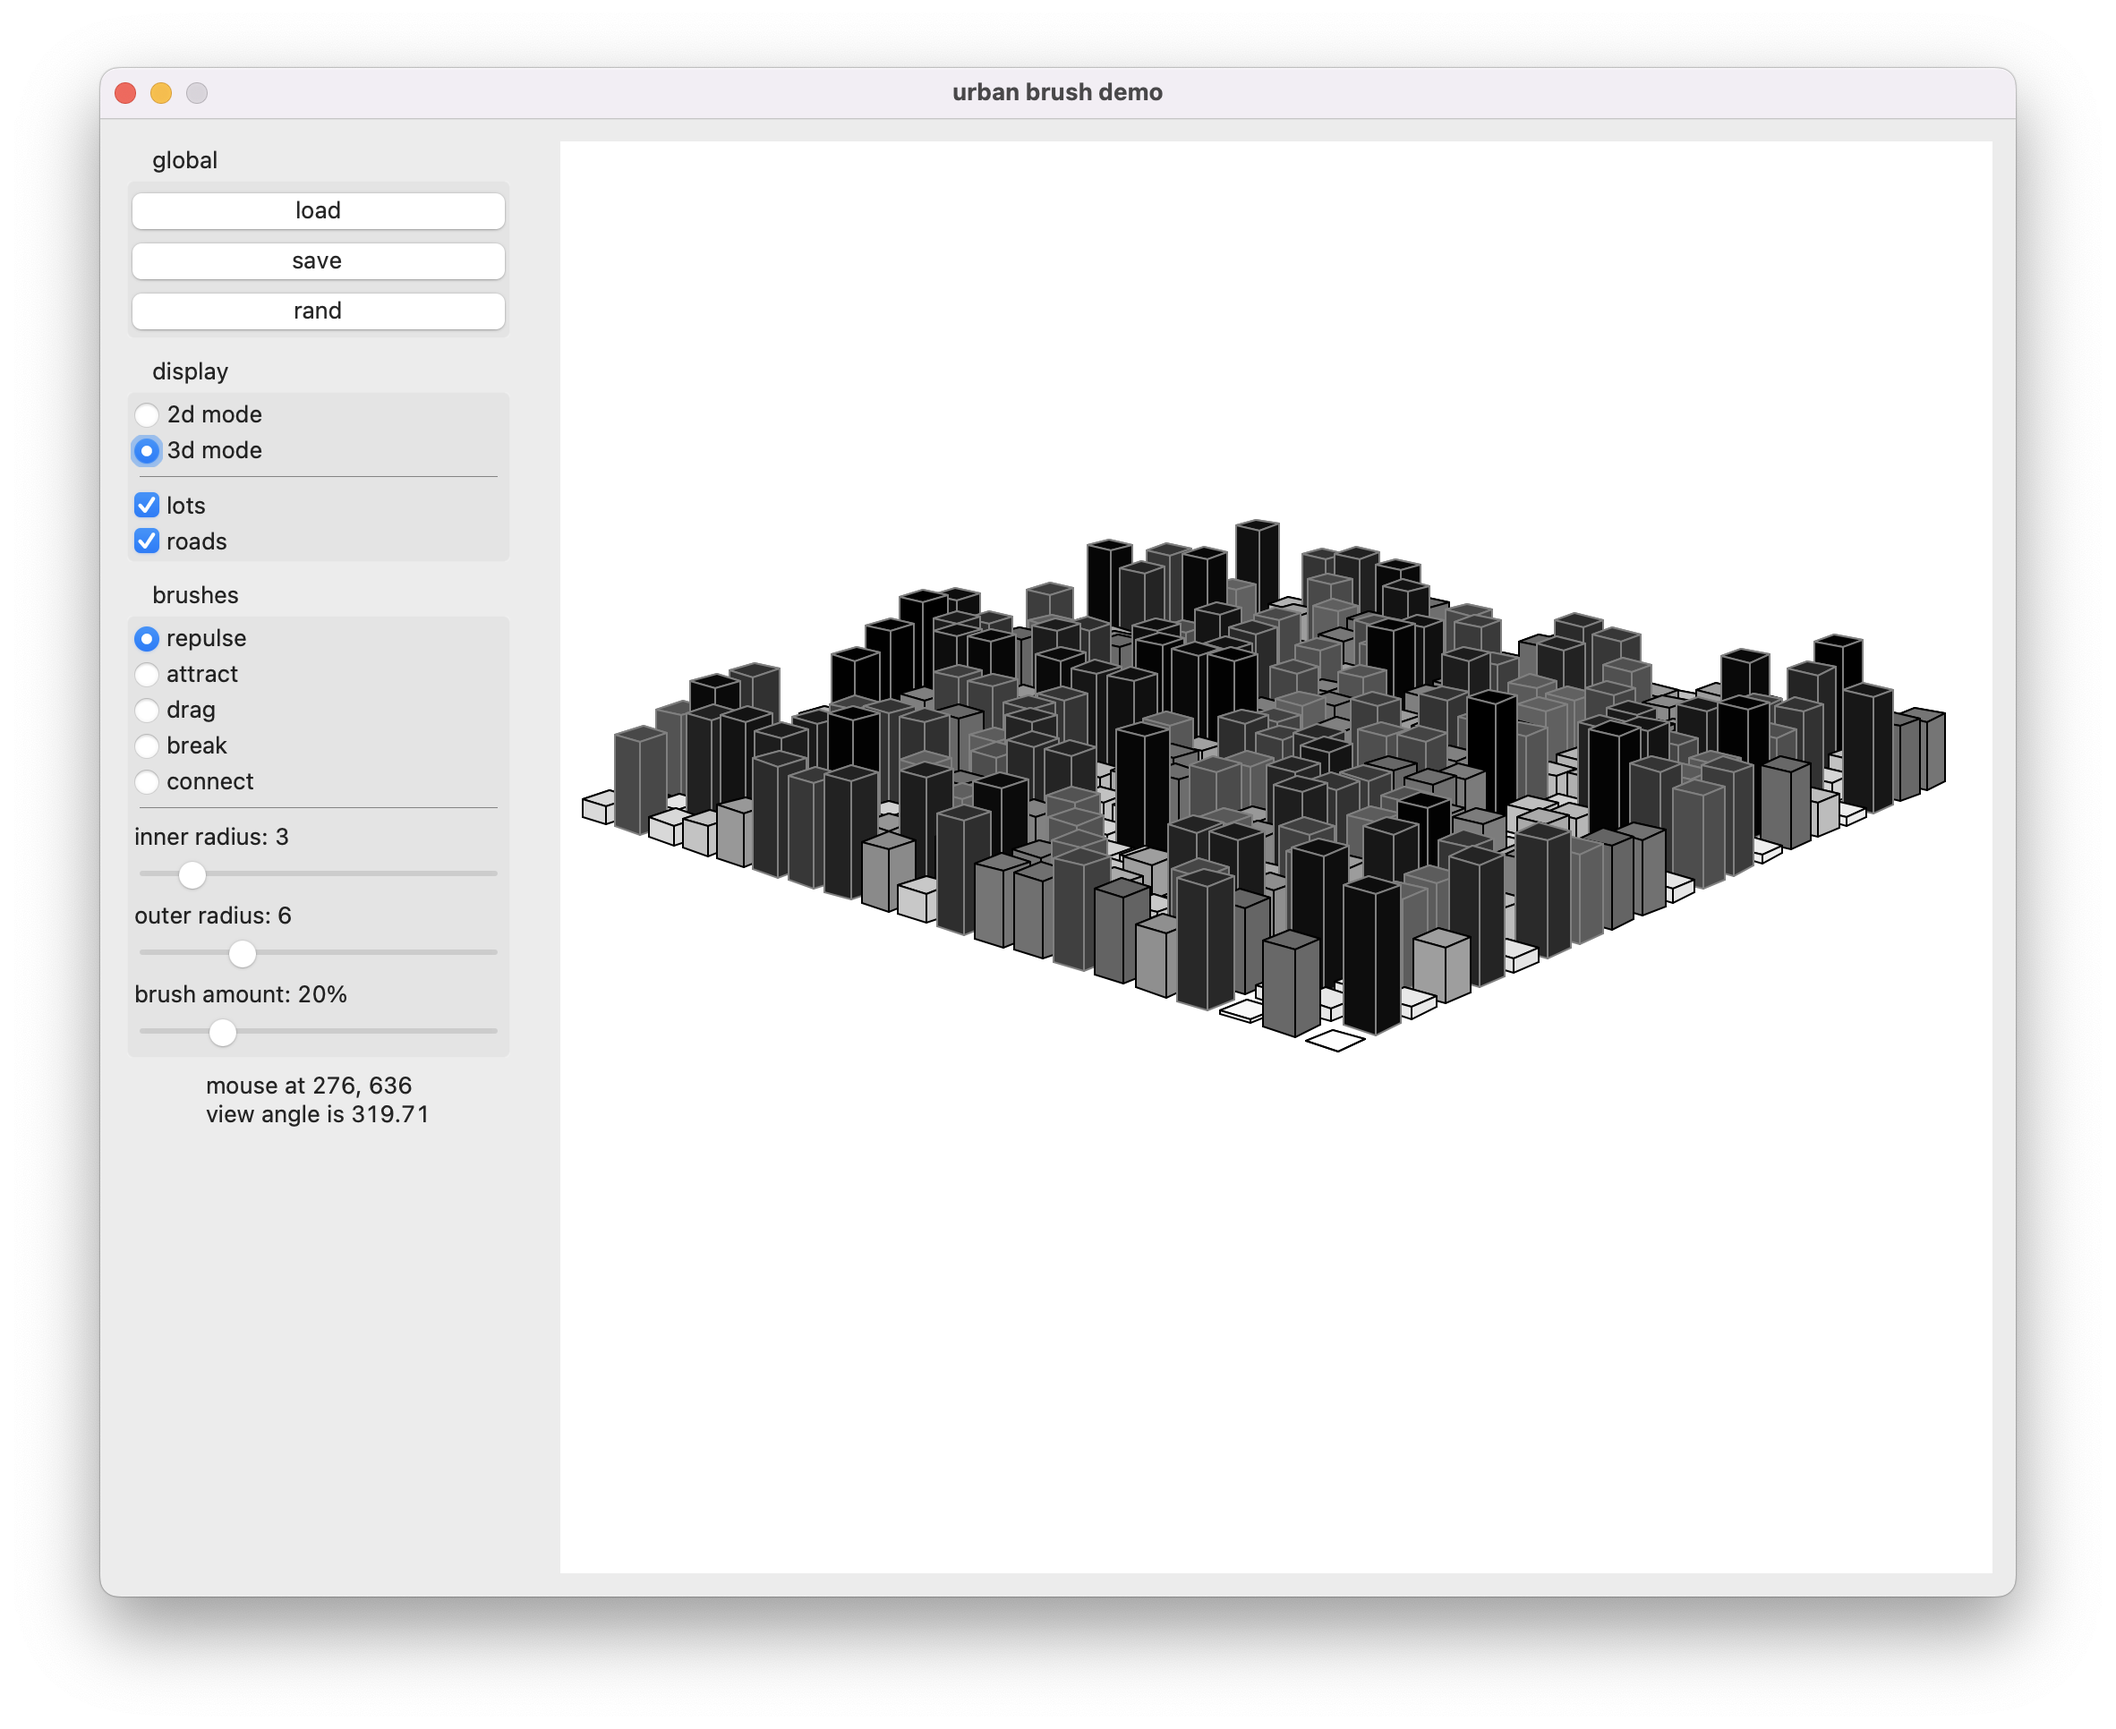
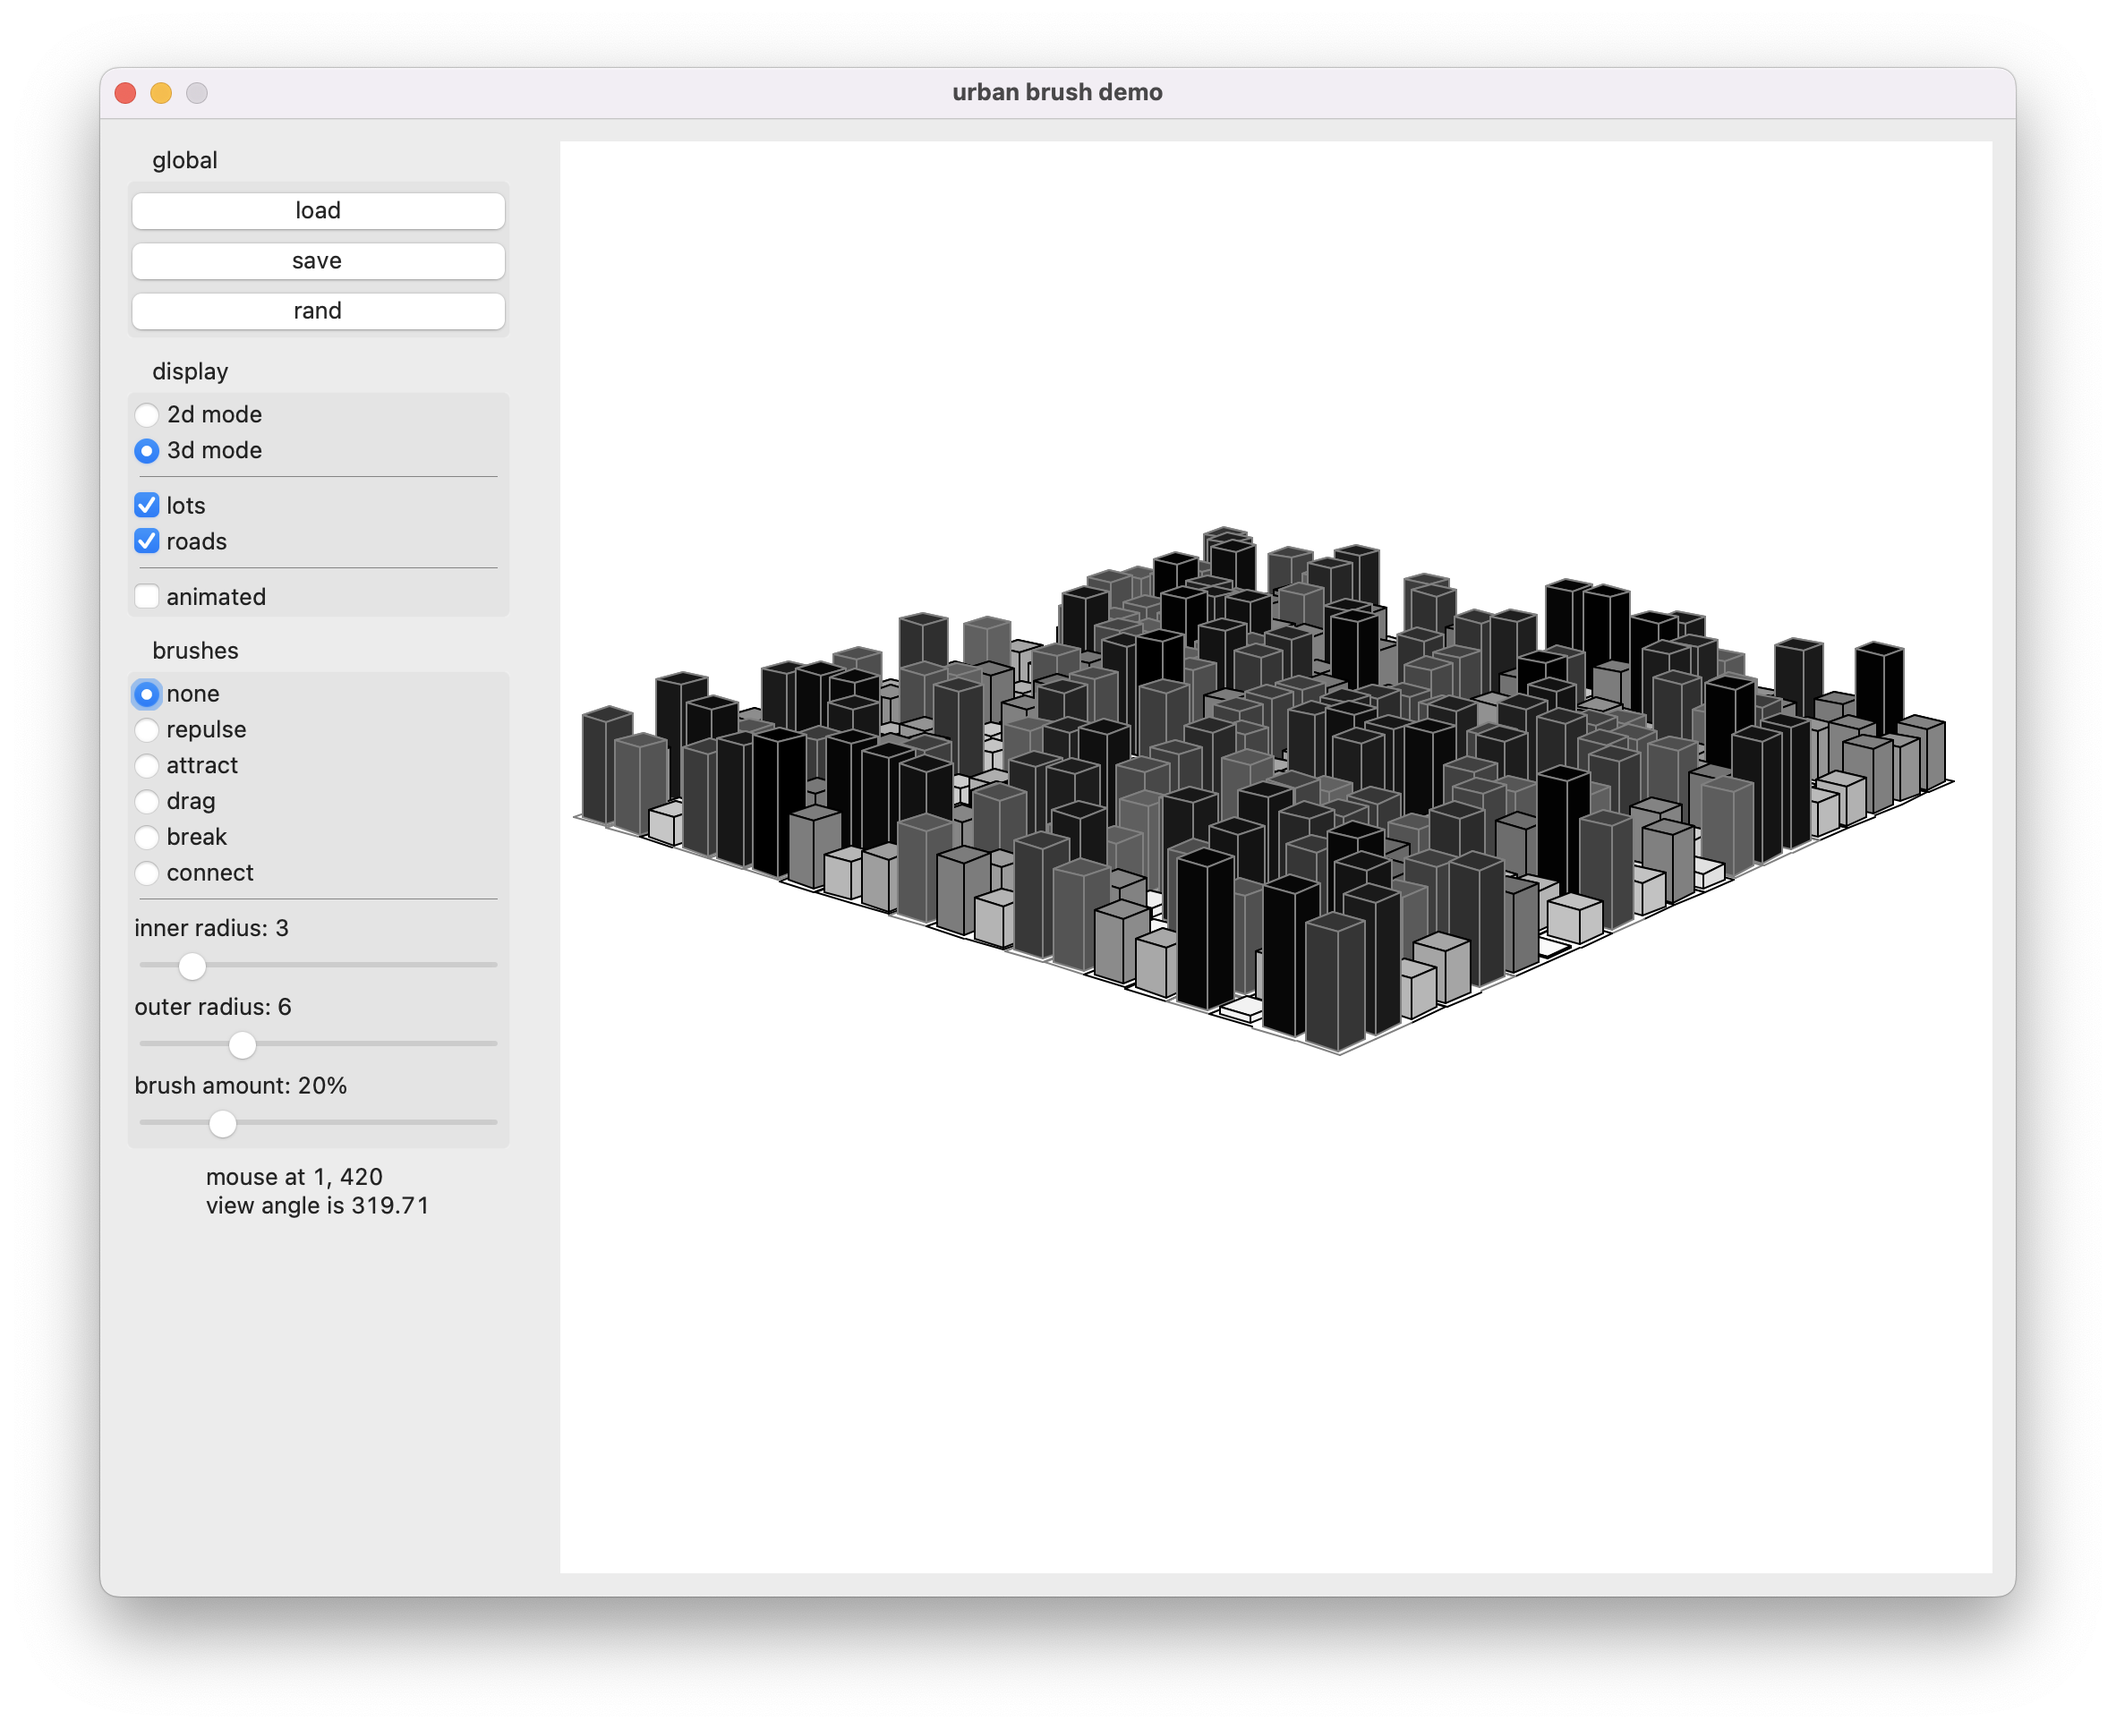
add an option of animated display

diff --git a/src/view3d.py b/src/view3d.py
@@ -4,7 +4,7 @@ from math import degrees
 import numpy as np
 import tkinter as tk
 
-from src.util import buildProjectionMat4, buildTranslationMat4, distance
+from src.util import buildProjectionMat4, buildTranslationMat4, distance, flatten
 
 class View3d(object):
 
@@ -42,9 +42,7 @@ class View3d(object):
         )
         # iterate lots
         meshes = list()
-        rows, cols = self.master.LOT_ROWS, self.master.LOT_COLS
-        for row, col in ((i, j) for i in range(rows) for j in range(cols)):
-            lot = self.master.grid.lots[row][col]
+        for lot in flatten(self.master.grid.lots):
             mesh = [[
                 project.dot(trans.dot(switchYZ.dot(v))) for v in surface
             ] for surface in lot.mesh(
@@ -61,13 +59,24 @@ class View3d(object):
                 lot.population, lot.color
             ) for surface in mesh])
         # render
-        meshes.sort(key=lambda x: x[1])
-        for (v1, v2, v3, v4), _, population, color in meshes:
+        def drawPolygon(v1: tuple, v2: tuple, v3: tuple, v4: tuple, population: int, color: str) -> None:
             canvas.create_polygon(
-                *v1, *v2, *v3, *v4,
-                fill=color, width=1,
+                *v1, *v2, *v3, *v4, fill=color, width=1,
                 outline='black' if population < lot.POPULATION_MAX * 0.618 else 'grey'
             )
+        def renderJob() -> None:
+            if meshes:
+                (v1, v2, v3, v4), _, population, color = meshes.pop()
+                drawPolygon(v1, v2, v3, v4, population, color)
+                canvas.after(1, renderJob)
+            else:
+                canvas.after_cancel(job)
+        meshes.sort(key=lambda x: x[1], reverse=self.master.showAnimation.get())
+        if self.master.showAnimation.get():
+            job = canvas.after(1, renderJob)
+        else:
+            for (v1, v2, v3, v4), _, population, color in meshes:
+                drawPolygon(v1, v2, v3, v4, population, color)
 
     def mouseMove(self, event: tk.Event) -> None:
         self.master.infoLabel.set(f'mouse at {event.x}, {event.y}\nview angle is {degrees(View3d.VIEW_ANGLE):.2f}')

diff --git a/src/app.py b/src/app.py
@@ -33,6 +33,7 @@ class App(object):
         self.show3d = tk.BooleanVar(value=False)
         self.showLot = tk.BooleanVar(value=True)
         self.showRoad = tk.BooleanVar(value=True)
+        self.showAnimation = tk.BooleanVar(value=False)
 
         self.brushType = tk.IntVar(value=-1)
         self.innerRadius = tk.IntVar(value=3)
@@ -69,10 +70,13 @@ class App(object):
         ttk.Separator(displayPad, orient=tk.HORIZONTAL).pack(fill=tk.BOTH, padx=5, pady=5)
         ttk.Checkbutton(displayPad, text='lots', variable=self.showLot, command=self.renderCanvas).pack(anchor=tk.W)
         ttk.Checkbutton(displayPad, text='roads', variable=self.showRoad, command=self.renderCanvas).pack(anchor=tk.W)
+        ttk.Separator(displayPad, orient=tk.HORIZONTAL).pack(fill=tk.BOTH, padx=5, pady=5)
+        ttk.Checkbutton(displayPad, text='animated', variable=self.showAnimation).pack(anchor=tk.W)
         displayPad.pack(fill=tk.X, padx=5, pady=5)
     
     def createBrushPad(self, master) -> None:
         brushPad = ttk.Labelframe(master, text='brushes')
+        ttk.Radiobutton(brushPad, text='none', variable=self.brushType, value=-1).pack(anchor=tk.W)
         ttk.Radiobutton(brushPad, text='repulse', variable=self.brushType, value=App.BRUSH_TYPE_REPULSE).pack(anchor=tk.W)
         ttk.Radiobutton(brushPad, text='attract', variable=self.brushType, value=App.BRUSH_TYPE_ATTRACT).pack(anchor=tk.W)
         ttk.Radiobutton(brushPad, text='drag', variable=self.brushType, value=App.BRUSH_TYPE_DRAG).pack(anchor=tk.W)

diff --git a/src/view2d.py b/src/view2d.py
@@ -1,6 +1,9 @@
 # 2d view
 
+from random import shuffle
 import tkinter as tk
+
+from src.util import flatten
 
 class View2d(object):
 
@@ -19,14 +22,25 @@ class View2d(object):
     def render(self) -> None:
         canvas = self.master.canvas
         canvas.delete('all')
-        rows, cols = self.master.LOT_ROWS, self.master.LOT_COLS
-        for row, col in ((i, j) for i in range(rows) for j in range(cols)):
-            lot = self.master.grid.lots[row][col]
+        lotList = flatten(self.master.grid.lots)
+        def drawPolygon(lot) -> None:
             if self.master.showLot.get():
                 canvas.create_rectangle(lot.bodyRect, fill=lot.color, width=0)
             if self.master.showRoad.get():
                 for roadRect, focused in lot.roadRect:
                     canvas.create_rectangle(roadRect, fill='magenta' if focused else 'black', width=0)
+        def renderJob() -> None:
+            if lotList:
+                drawPolygon(lotList.pop())
+                canvas.after(1, renderJob)
+            else:
+                canvas.after_cancel(job)
+        if self.master.showAnimation.get():
+            shuffle(lotList)
+            job = canvas.after(1, renderJob)
+        else:
+            for lot in lotList:
+                drawPolygon(lot)
     
     def mouseMove(self, event: tk.Event) -> None:
         self.master.infoLabel.set(f'mouse at {event.x}, {event.y}')

diff --git a/README.md b/README.md
@@ -27,12 +27,11 @@ python3 main.py
 
 ## 3.2 preview mode
 
-- Users may preview the layout in both 2D mode and 3D mode by switching between the corresponding radio buttons.
-- However, operations are only permitted under 3D mode.
+- Users may preview the layout in both 2D mode and 3D mode by switching between the corresponding radio buttons, and choose to hide lots or roads in the 2d preview mode by checking the corresponding checkboxes.
+- However, brush operations are only permitted under 2D mode.
+- By selecting the "animated" button, the layout will be rendered as a series of animations, which is only recommended for displaying.
 
 ### 3.2.1 2d preview mode
-
-- Users may choose to hide lots or roads in the 2d preview mode by checking the corresponding checkboxes.
 
 ![preview-2d](preview-2d.png)
 
